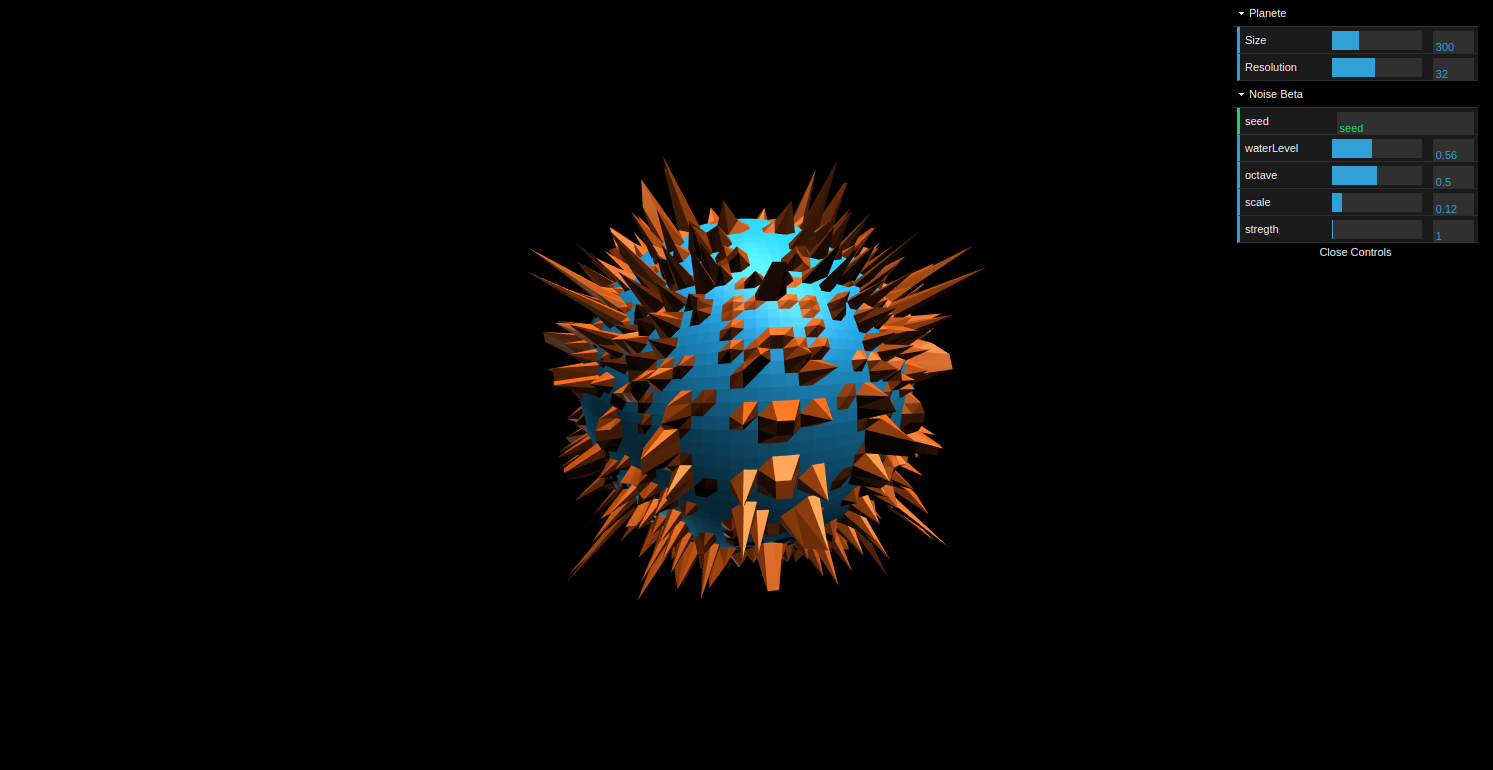
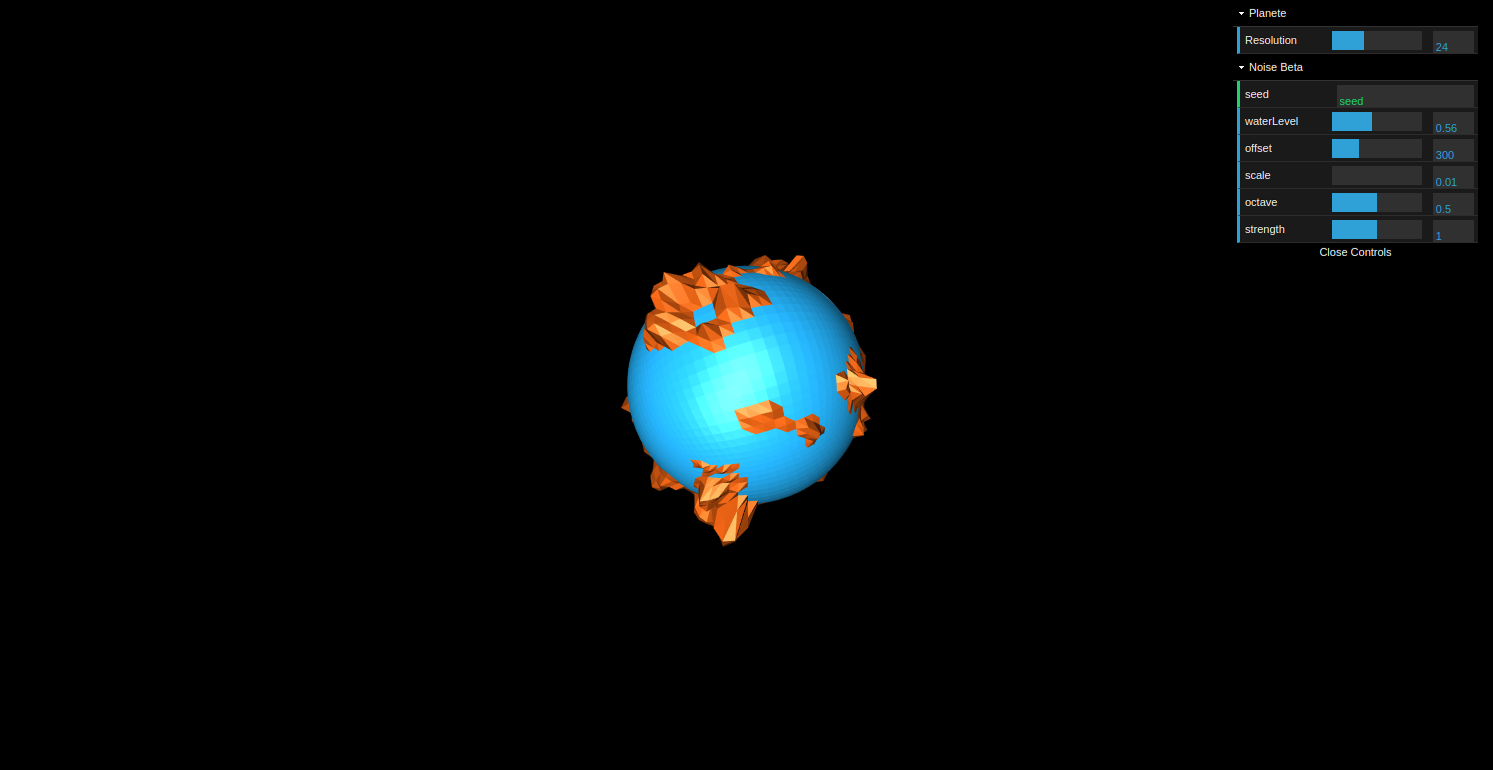
I broke the UI a bit but got a better noise control

diff --git a/public/js/pg/ThreeCube.js b/public/js/pg/ThreeCube.js
@@ -1,22 +1,25 @@
 class ThreeCube {
 
-	constructor(firstMaterial, secondMaterial) {
+	constructor() {
+		this.computed = new THREE.Group();
 		this.faces = null;
 		this.farestVertex = null;
-		this.firstMaterial = firstMaterial;
-		this.secondMaterial = secondMaterial;
+		this.firstMaterial = null;
+		this.secondMaterial = null;
 
 		this.noiseOptions = null;
 	}
 
-	init(planeteOptions, noiseOptions){
+	init(planeteOptions, noiseOptions, firstMaterial = this.firstMaterial, secondMaterial = this.secondMaterial){
 
 		let {size, resolution} = planeteOptions;
+		this.firstMaterial = firstMaterial;
+		this.secondMaterial = secondMaterial;
 
 		let faces = []
 		for (let i=0; i<6; i++) {
 			let face = new Face();
-			face.init(i, size, resolution, noiseOptions);
+			face.init(i, size, resolution, noiseOptions, firstMaterial, secondMaterial);
 			faces.push(face);
 		}
 		this.faces = faces;
@@ -33,14 +36,16 @@ class ThreeCube {
 
 	draw(){
 		this.faces.forEach((face, face_i) => {
-			face.draw(this.firstMaterial, this.secondMaterial);
+			this.computed.add(this.faces[face_i].computed);
 		});
+		scene.add(this.computed);
 	}
 
 	remove(){
 		this.faces.forEach((face, face_i) => {
 			face.remove();
 		});
+		// scene.remove(this.computed);
 	}
 
 }
@@ -96,8 +101,12 @@ class Face {
 		return noisedVertex;
 	}
 
+	remove() {
+		scene.remove(this.computed);
+	}
+
 	// TO DO ( éviter la répétition dans la fonction init() )
-	init(face_index, size, resolution, noiseOptions){
+	init(face_index, size, resolution, noiseOptions, firstMaterial, secondMaterial){
 		
 		this.noiseOptions = noiseOptions;
 
@@ -105,6 +114,7 @@ class Face {
 		const v2 = new THREE.Vector3(size/2,size/2,size/2);
 		const farestVertex = v1.distanceTo(v2);
 
+		// Verctors part
   		// Faces relative position
   		// X axis faces
   		if(face_index == 0) {
@@ -303,10 +313,7 @@ class Face {
 			}
   		}
 
-	}
-
-	draw(firstMaterial, secondMaterial) {
-
+  		// Materials part
 	    for(let i=0;i<this.verteces.length;i+=3){
 			let geometry = new THREE.Geometry();
 	    	
@@ -332,41 +339,14 @@ class Face {
 					)/3;
 
 				if(coef <= this.noiseOptions.waterLevel * 260 ){
-					this.computed.add( new THREE.Mesh( geometry, firstMaterial ) );
+					this.computed.add(new THREE.Mesh(geometry, firstMaterial));
 				} else {
-					this.computed.add( new THREE.Mesh( geometry, secondMaterial ) );
+					this.computed.add(new THREE.Mesh(geometry, secondMaterial));
 				}
 			}
 
 	    }
 
-		scene.add(this.computed);
-
-	   //  fill(200);
-	  	// stroke(0);
-	  	// noStroke();
-	  	// normalMaterial();
-		// push();
-
-	    // const sliceSize = size/(resolution-1);
-
-	    // for(let i=0;i<this.verteces.length;i+=3){
-	    // 	const vert_A = this.verteces[i];
-	    // 	const vert_B = this.verteces[i+1];
-	    // 	const vert_C = this.verteces[i+2];
-
-		   //  beginShape();
-		   //  vertex(vert_A.x,vert_A.y,vert_A.z);
-		   //  vertex(vert_B.x,vert_B.y,vert_B.z);
-		   //  vertex(vert_C.x,vert_C.y,vert_C.z);
-		   //  endShape(CLOSE);
-	    // }
-
-	    // pop();
-
 	}
 
-	remove() {
-		scene.remove(this.computed);
-	}
 }

diff --git a/public/js/pg/tg.js b/public/js/pg/tg.js
@@ -134,8 +134,8 @@ function setup() {
 	// skybox.draw();
 
 	// planete = new ThreeCube(lineMaterial, waterMaterial);
-	planete = new ThreeCube(waterMaterial, groundMaterial);
-	planete.init(options.planete, options.noise_beta);
+	planete = new ThreeCube();
+	planete.init(options.planete, options.noise_beta, waterMaterial, groundMaterial);
 	planete.draw();
 	// const waterGeometry = new THREE.SphereGeometry(options.planete.size/2, options.planete.resolution, options.planete.resolution);
 	// water = new THREE.Mesh(waterGeometry, waterMaterial);
